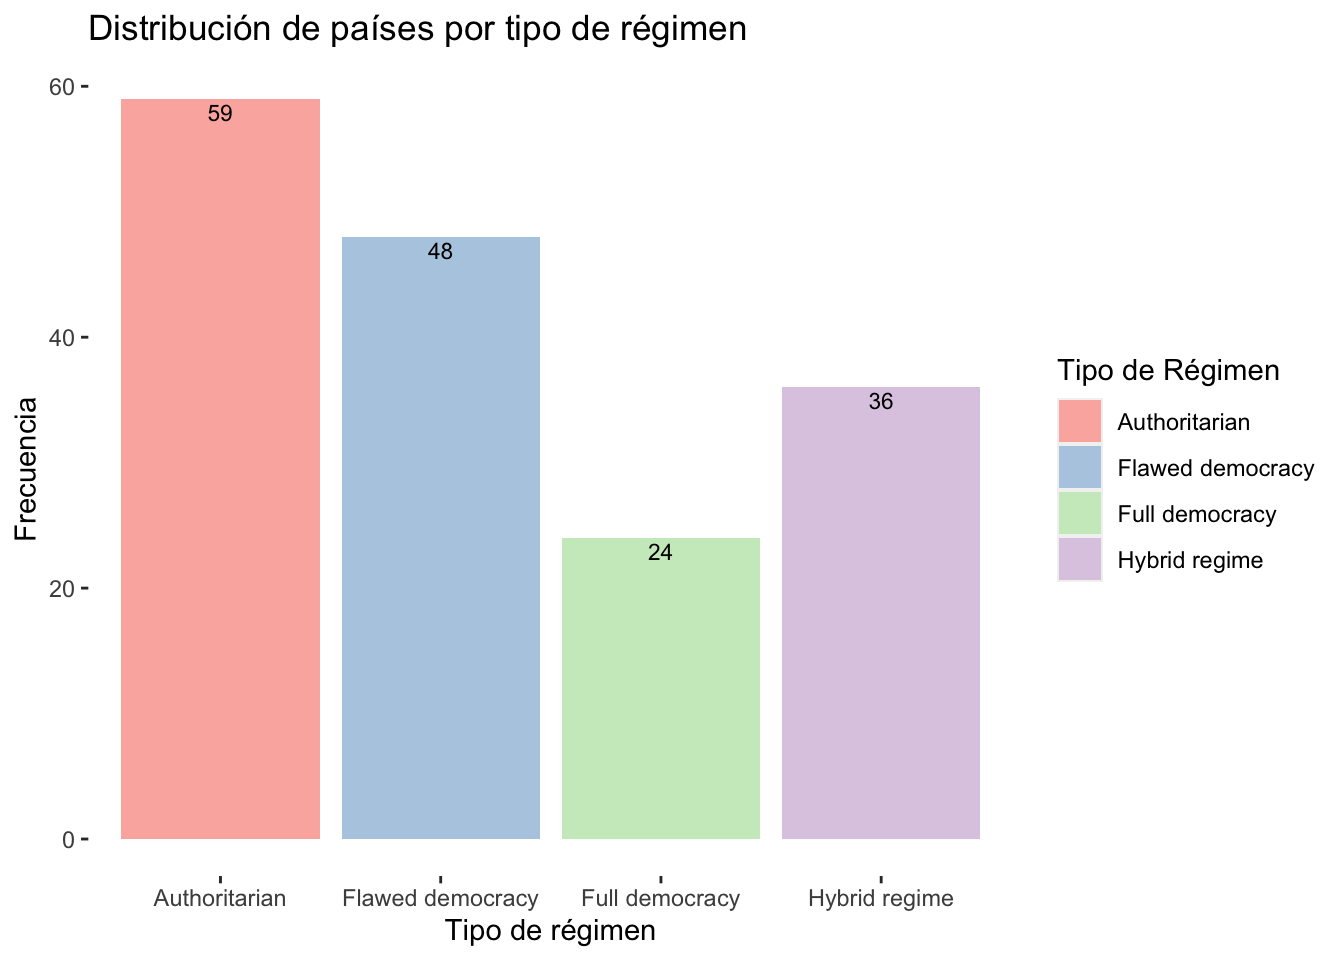
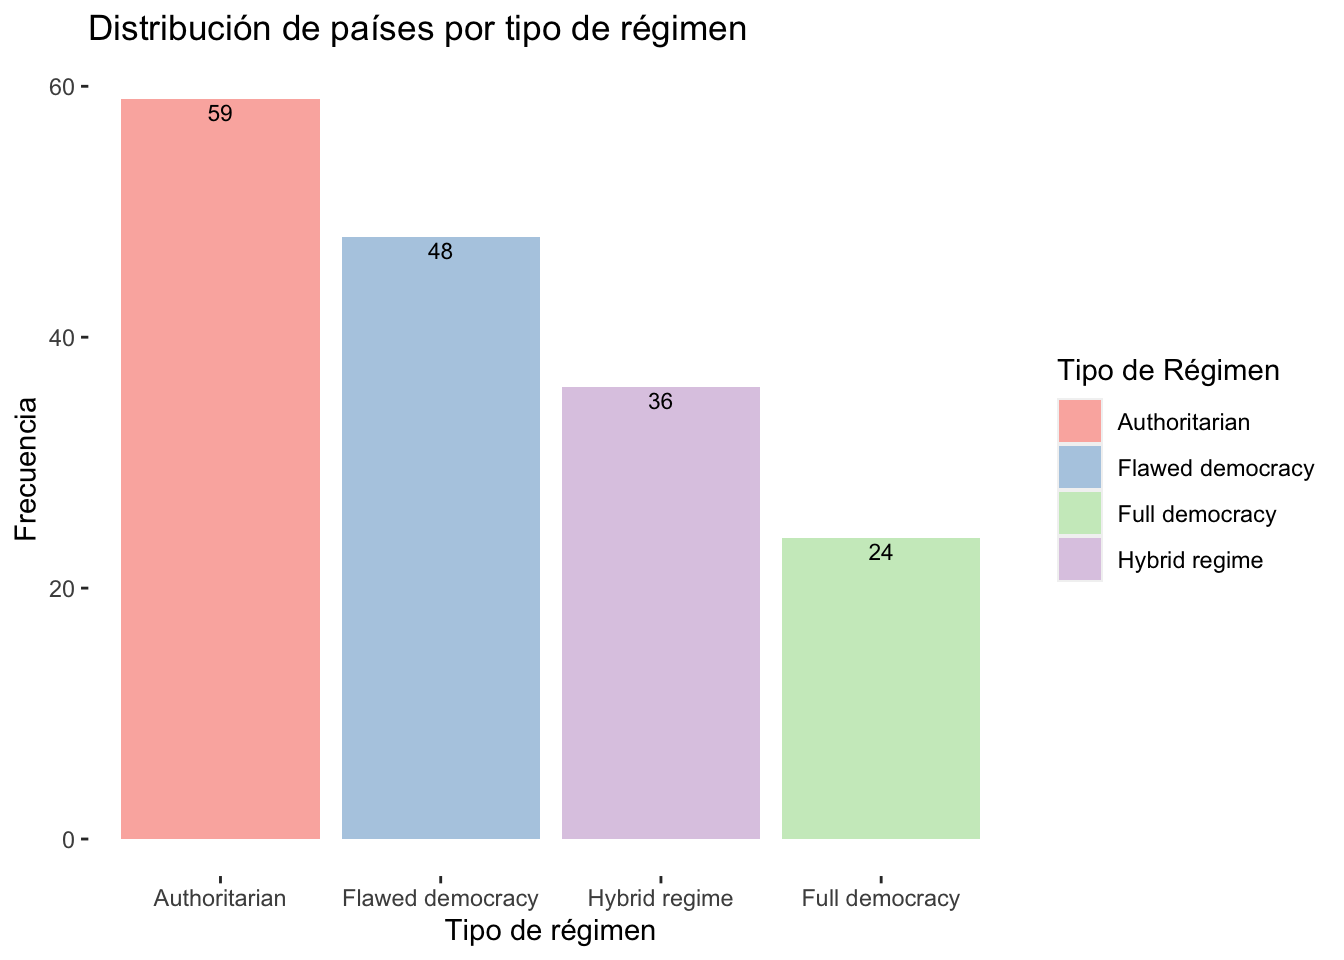
lcf

Changed region(s): [[0.4062, 0.4062, 0.75, 0.875], [0.5938, 0.9062, 0.7188, 0.9688], [0.4375, 0.9062, 0.5625, 0.9688]]

diff --git a/pd1.html b/pd1.html
@@ -519,7 +519,7 @@ consola: <code>install.packages("rio")</code></p>
 <pre class="r"><code>library(rio) #Convocamos el paquete   
 data=import(&quot;DemocracyIndex2022.xlsx&quot;) #Utilizamos la función import (importar) que creará un objeto  que contenga la base de datos del archivo &quot;DemocracyIndex2022.xlsx&quot; la cual hemos descargado. 
 
-#Podemos verificar la creación en el environment (ventana derecha superior)
+#Podemos verificar la creación del objeto en el environment (ventana derecha superior)
 
 class(data) #si quieren saber que clase de objeto es el que has creado, utilizamos la función &quot;class&quot; y entre paréntesis colocamos el nombre del objeto. Verán que se trata de un &quot;data frame&quot;, es el tipo de objeto en R para las bases de datos.</code></pre>
 <pre><code>## [1] &quot;data.frame&quot;</code></pre>
@@ -571,9 +571,10 @@ categóricas, etc).</p></td>
 </tbody>
 </table>
 <p>Los <strong>vectores numéricos</strong> se crean a través de la
-función <strong>concatenar “c()”</strong>. Vamos a crear un vector que
-contenga los montos en millones de soles del presupuesto del Estado
-asignado a las 5 prioridades para el 2021</p>
+función <strong><em>concatenar</em></strong>
+<strong><code>c()</code></strong>. Vamos a crear un vector que contenga
+los montos en millones de soles del presupuesto del Estado asignado a
+las 5 prioridades para el 2021</p>
 <pre class="r"><code>Presupuesto_millones=c(9879, 33132, 20991, 690, 5392) #creamos el vector (verifiquemos en el environment)
 Presupuesto_millones #invocamos el vector para visualizar su contenido</code></pre>
 <pre><code>## [1]  9879 33132 20991   690  5392</code></pre>
@@ -594,8 +595,8 @@ almacenar información de una variable categórica ordinal. Es casi la
 misma ruta, solo que añadiremos una función más para convertir el factor
 en ordinal. Creemos un factor ordinal ficticio que contenga el nivel de
 ejecución que el Estado ha mostrado en las categorías presupuestales
-correspondientes a las prioridades, donde 1=Mala, 2=Intermedia y 3=
-Buena.</p>
+correspondientes a las prioridades, donde <em>1=Mala, 2=Intermedia y 3=
+Buena.</em></p>
 <pre class="r"><code>Ejecucion=c(3,2,2,1,2) #creamos un vector numérico que registra los datos
 Ejecucion=factor(Ejecucion) #Lo convertimos en factor
 levels(Ejecucion)=c(&quot;Mala&quot;,&quot;Intermedia&quot;,&quot;Buena&quot;) #asignamos los niveles al factor
@@ -623,12 +624,12 @@ PP2024 # Visualice la base de datos</code></pre>
 <pre class="r"><code>names(PP2024) #Visualice los nombres de las variables de la BD</code></pre>
 <pre><code>## [1] &quot;Prioridad&quot;            &quot;Presupuesto_millones&quot; &quot;Ejecucion&quot;</code></pre>
 <p>Cuando queramos invocar una variable específica de una base de datos
-utilizaremos <strong>“$”</strong>, entre la base de datos y la variable
-que queremos invocar.</p>
+utilizaremos <strong><code>$</code></strong>, entre la base de datos y
+la variable que queremos invocar.</p>
 <pre class="r"><code>PP2024$Prioridad #invocamos la variable prioridad de la base de datos</code></pre>
 <pre><code>## [1] reactivación educación    salud        mujer        pobreza     
 ## Levels: reactivación educación salud mujer pobreza</code></pre>
-<pre class="r"><code>class(PP2024$Ejecucion) #vemos de que clase es la variable ejecución de la bbdd</code></pre>
+<pre class="r"><code>class(PP2024$Ejecucion) #vemos de que clase es la variable ejecución de la data frame</code></pre>
 <pre><code>## [1] &quot;ordered&quot; &quot;factor&quot;</code></pre>
 <hr />
 <p><a id='part4'></a></p>
@@ -637,18 +638,17 @@ que queremos invocar.</p>
 </div>
 <div id="análisis-descriptivo-en-r" class="section level1">
 <h1><strong>4. Análisis descriptivo en R</strong></h1>
-<p>Para ello, nos planteamos la siguiente pregunta de investigación, que
-nos guiará durante toda la sesión de hoy:</p>
+<p>AÑADIR BREVE DESCRIPCIÓN DE LA BD, explicar su composisción y link de
+informe final</p>
+<p>EDITAR: Para ello, nos planteamos la siguiente pregunta de
+investigación, que nos guiará durante toda la sesión de hoy:</p>
 <blockquote>
 <p><strong>¿Cuál es el estado de la democracia en el mundo?</strong></p>
 </blockquote>
-<p>Esta pregunta nos permite realizar un análisis descriptivo. Por ello,
-la responderemos durante toda la sesión. &gt; &gt; <img
-src="pd1_kermit.png" title="porq es importante?" width="117" /></p>
+<p><img src="pd1_kermit.png" title="porq es importante?"
+width="117" /></p>
 <p><strong>¡Manos a la obra!</strong></p>
-<p>Lo primero que debemos hacer para responder la pregunta de
-investigación es saber qué base de datos vamos a utilizar. Luego,
-importamos nuestra base de datos.</p>
+<p>Importemos nuestra base de datos.</p>
 <pre class="r"><code>library(rio)    
 data=import(&quot;DemocracyIndex2022.xlsx&quot;) </code></pre>
 <p>Es necesario saber el tipo de variable que vamos a trabajar. Por
@@ -710,6 +710,8 @@ con el objeto en R.</p>
 <p>Por ejemplo, debemos asegurarnos que una variable categórica no esté
 configurada como numérica en R, y viceversa.</p>
 <p><strong>Variable “Categorías”:</strong></p>
+<div class="line-block">¿Cuál es la frecuencia de cada régimen en la
+muestra de países?</div>
 <p>Queremos saber el tipo de régimen de cada país observado. Para ello,
 realizamos el análisis de la variable en cuestión (“Categorías”)</p>
 <pre class="r"><code>class(data$Categorías) </code></pre>
@@ -753,7 +755,7 @@ geom_bar(stat = &quot;identity&quot;)</code></pre>
 <p><img src="pd1_files/figure-html/unnamed-chunk-13-1.png" width="672" /></p>
 <p>Adaptemos el diseño del gráfico :)</p>
 <pre class="r"><code>library(ggplot2)
-ggplot(para_graficoReg, aes(x=Categorías, y=Freq, fill=Categorías)) + 
+ggplot(para_graficoReg, aes(reorder(x=Categorías,-Freq), y=Freq, fill=Categorías)) + 
 geom_bar(stat = &quot;identity&quot;)+
   
   ggtitle(&quot;Distribución de países por tipo de régimen&quot;) +
@@ -770,24 +772,24 @@ numéricos de números enteros (integer), por lo cual lo dejamos así
 <h2>4.2 Media y mediana</h2>
 <p>Entonces, una vez configurados adecuadamente nuestros
 <strong>objetos</strong>, pidamos los estadísticos de tendencia central
-para nuestras variables de interés, esto es, el puntaje total
-(<strong>Puntaje</strong>)</p>
-<p>Antes instalamos algunos paquetes que utilizaremos</p>
+para nuestras variables de interés.</p>
+<p>Antes instalamos los paquetes que utilizaremos</p>
 <ul>
-<li><strong>install.packages(“DescTools”)</strong> para pedir los
-estadísticos de tendencia central</li>
+<li><strong><code>install.packages("DescTools")</code></strong> para
+pedir los estadísticos de tendencia central</li>
 </ul>
-<p>Primero, nos piden saber cuál es el promedio de puntaje de todos los
-países analizados. Para ello, usamos el comando “mean”, que significa
-“media o promedio”.</p>
+<div class="line-block">¿Cuál es el promedio del puntaje de todos los
+países analizados?</div>
+<p>Para ello, usamos el comando <code>mean</code> que significa “media o
+promedio”.</p>
 <pre class="r"><code>library(DescTools)
 library(tidyverse)
 
 data %&gt;% summarise(media = mean(Puntaje)) #este comando nos permitirá calcular la media. Consejo: leer este comando de derecha a izquierda</code></pre>
 <pre><code>##      media
 ## 1 5.293174</code></pre>
-<p>Este resultado quiere decir que el puntaje promedio de todos los
-países analizados es de 5.29 puntos.</p>
+<p>Este resultado quiere decir que el <strong>puntaje promedio</strong>
+de todos los países analizados es de 5.29 puntos.</p>
 <p>En segundo lugar, nos piden calcular la mediana de los puntajes. Esta
 medida es más robusta que la media, pues resiste valores extremos.</p>
 <pre class="r"><code>library(DescTools)
@@ -796,25 +798,38 @@ data %&gt;% summarise(mediana = median(Puntaje)) #calcular la mediana. Al igual 
 ## 1    5.54</code></pre>
 <p>Esto quiere decir que, hasta la mitad de países analizados tienen una
 puntuación de hasta 5.54 puntos.</p>
-<p><strong>Grafiquemos</strong></p>
-<p>Primero, seleccionemos los datos que queremos utilizar.</p>
-<pre class="r"><code>para_graficoPunt = data %&gt;%
-  group_by(Puntaje) %&gt;%
-   summarize(Freq=n())</code></pre>
-<p>Como nuestra variable (OverallScore) es numérica, esta vez pediremos
-un <strong>histograma</strong>. Es similar a un gráfico de barras, solo
-que esta vez todas las barras se encuentran juntas y no separadas.</p>
+<p><strong>Grafiquemos</strong> 🎨</p>
+<p>Como la variable <code>Puntaje</code> es numérica, esta vez pediremos
+un <strong>histograma</strong>.</p>
+<pre class="r"><code>names(data)</code></pre>
+<pre><code>##  [1] &quot;País&quot;                        &quot;Puntaje&quot;                    
+##  [3] &quot;Rank&quot;                        &quot;Change_rank_previous_year&quot;  
+##  [5] &quot;Electoral_process_pluralism&quot; &quot;Functioning_government&quot;     
+##  [7] &quot;Political_participation&quot;     &quot;Political_culture&quot;          
+##  [9] &quot;Civil_liberties&quot;             &quot;Categorías&quot;                 
+## [11] &quot;Continente&quot;</code></pre>
 <pre class="r"><code>library(ggplot2) #no olvidar llamar al paquete
-ggplot(para_graficoPunt, aes(x=Puntaje)) + 
+data %&gt;%
+ggplot(aes(x=Puntaje)) + 
 geom_histogram() </code></pre>
 <pre><code>## `stat_bin()` using `bins = 30`. Pick better value with `binwidth`.</code></pre>
 <p><img src="pd1_files/figure-html/unnamed-chunk-18-1.png" width="672" /></p>
 <p>Si lo queremos personalizar :)</p>
-<pre class="r"><code>ggplot(para_graficoPunt, aes(x=Puntaje)) + 
-geom_histogram(color = &quot;black&quot;, fill =&quot;blue&quot;) + geom_density(fill = &quot;black&quot;, alpha = 0.25) + 
-  
-  ggtitle(&quot;Puntaje promedio por país&quot;)</code></pre>
-<pre><code>## `stat_bin()` using `bins = 30`. Pick better value with `binwidth`.</code></pre>
+<pre class="r"><code>data %&gt;%
+ggplot(aes(x=Puntaje)) + geom_histogram() +
+geom_histogram(color = &quot;black&quot;, fill =&quot;blue&quot;) +
+geom_text(stat = &#39;bin&#39;, aes(y = ..count.., label = ..count..), vjust = -0.5, size = 3, color = &quot;black&quot;, bins = 30 , vjust = -10, size = 2, color = &quot;black&quot;, bins = 30)+
+   ggtitle(&quot;Puntaje promedio por país&quot;)+
+theme(panel.background=element_rect(fill = &quot;white&quot;, colour = &quot;white&quot;))</code></pre>
+<pre><code>## Warning: Duplicated aesthetics after name standardisation: vjust, size, colour,
+## and bins</code></pre>
+<pre><code>## Warning: The dot-dot notation (`..count..`) was deprecated in ggplot2 3.4.0.
+## ℹ Please use `after_stat(count)` instead.
+## This warning is displayed once every 8 hours.
+## Call `lifecycle::last_lifecycle_warnings()` to see where this warning was
+## generated.</code></pre>
+<pre><code>## `stat_bin()` using `bins = 30`. Pick better value with `binwidth`.
+## `stat_bin()` using `bins = 30`. Pick better value with `binwidth`.</code></pre>
 <p><img src="pd1_files/figure-html/unnamed-chunk-19-1.png" width="672" /></p>
 <p>El histograma muestra una <strong>distribución asimétrica sesgada con
 ligero sesgo negativo o a la izquierda</strong>. Esto quiere decir que
